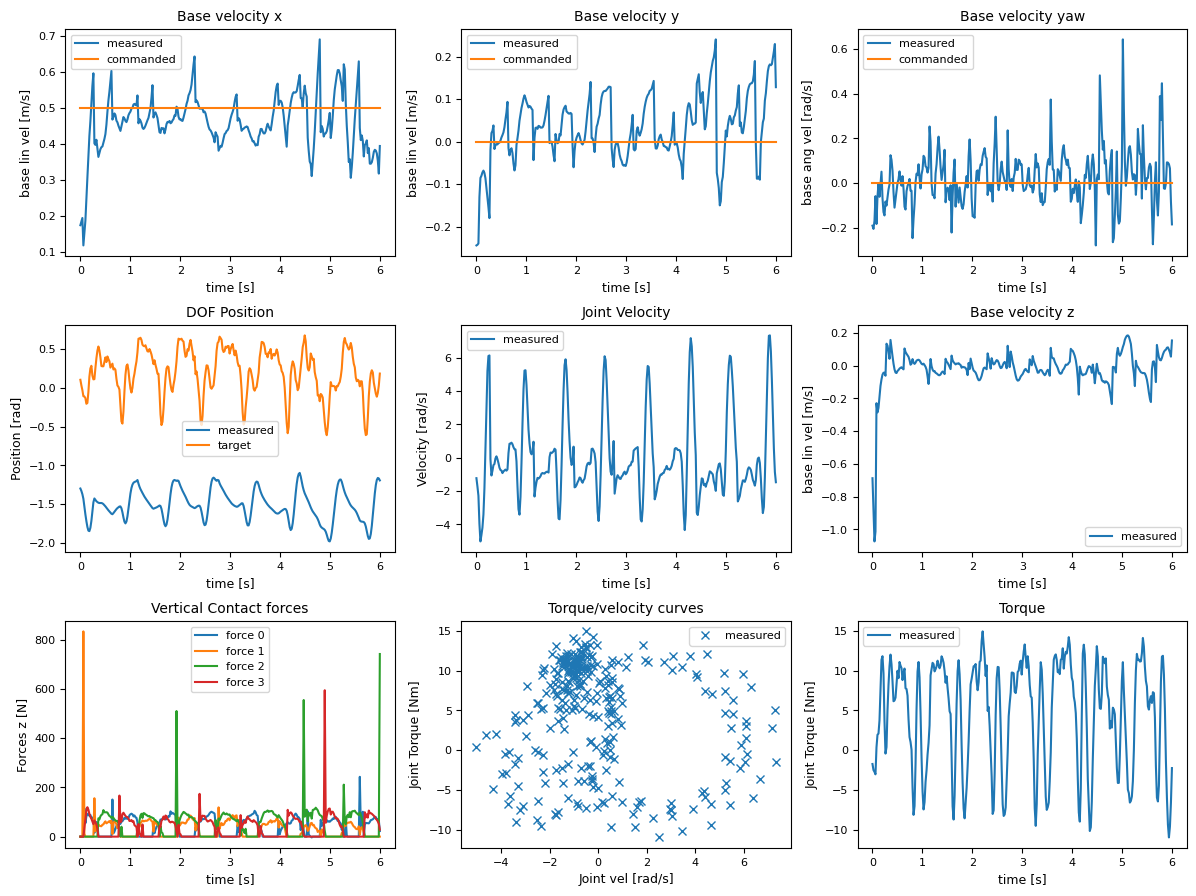
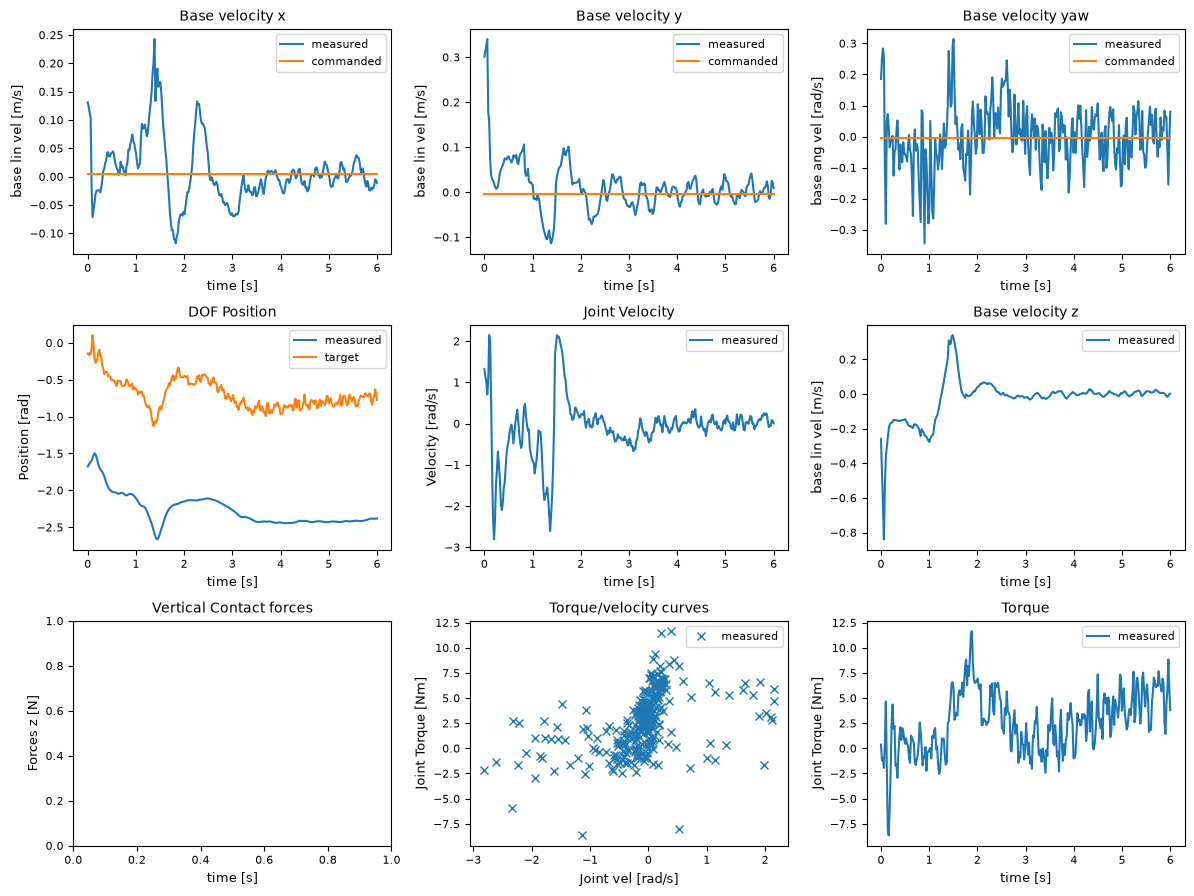
Fixes made to enable play.py to run

diff --git a/legged_gym/scripts/play.py b/legged_gym/scripts/play.py
@@ -125,7 +125,9 @@ def interaction_loop(env, policy, args, task_type):
     stop_rew_log = env.max_episode_length + 1 # number of steps before print average episode rewards
         
     # Get initial observations according to task type
-    if task_type == "ts_depth":
+    if task_type == "depth_waq_distill":
+        obs_buf, privileged_obs_buf, obs_history, explicit_labels, next_states, depth_image = env.get_observations()
+    elif task_type == "ts_depth":
         obs_buf, privileged_obs_buf, depth_image, critic_obs = env.get_observations()
     elif task_type == "ts" or task_type == "cat" or task_type == "cts" or task_type == "cts_amp": # teacher-student specific (including AMP)
         obs_buf, privileged_obs_buf, obs_history, critic_obs = env.get_observations()
@@ -159,7 +161,10 @@ def interaction_loop(env, policy, args, task_type):
             env.set_viewer_camera(pos, lookat)
             
         # Step the environment according to task type
-        if task_type == "ts_depth":
+        if task_type == "depth_waq_distill":
+            actions = policy(obs_buf, obs_history, depth_image)
+            obs_buf, privileged_obs_buf, obs_history, explicit_labels, next_states, rews, dones, infos, depth_image = env.step(actions.detach())
+        elif task_type == "ts_depth":
             actions = policy(obs_buf, depth_image)
             obs_buf, privileged_obs_buf, depth_image, critic_obs, rews, dones, infos = env.step(actions.detach())
         elif task_type == "ts" or task_type == "cat" or task_type == "cts":

diff --git a/legged_gym/envs/go2/go2_depth_waq_distill/go2_depth_waq_distill.py b/legged_gym/envs/go2/go2_depth_waq_distill/go2_depth_waq_distill.py
@@ -13,12 +13,35 @@ class Go2DepthWaqDistill(Go2DepthWaq):
 
     simulator_class = GenesisSimulatorDistill
 
+    def __init__(
+        self,
+        cfg,
+        sim_params,
+        sim_device,
+        headless,
+    ):
+        super().__init__(
+            cfg,
+            sim_params,
+            sim_device,
+            headless,
+        )
+
+        if not hasattr(self, "heading"):
+            self.heading = torch.zeros(
+                self.num_envs,
+                dtype=torch.float,
+                device=self.device,
+            )
+
     def get_teacher_ids(self) -> torch.Tensor:
         teacher_ids = self.simulator.teacher_ids
         expected = (self.num_envs, 1)
+
         if tuple(teacher_ids.shape) != expected:
             raise RuntimeError(
                 f"Expected teacher_ids shape {expected}; "
                 f"got {tuple(teacher_ids.shape)}."
             )
+
         return teacher_ids

diff --git a/legged_gym/envs/go2/go2_depth_waq_distill/go2_depth_waq_distill_config.py b/legged_gym/envs/go2/go2_depth_waq_distill/go2_depth_waq_distill_config.py
@@ -263,3 +263,6 @@ class Go2DepthWaqDistillCfgPPO(Go2DepthWaqCfgPPO):
         # existing generalist checkpoint. The LoRA teacher checkpoints are
         # configured separately above.
         pre_trained = None
+        resume = True
+        load_run = "Aug03_17-52-31_pure_imitation"
+        checkpoint = -1
